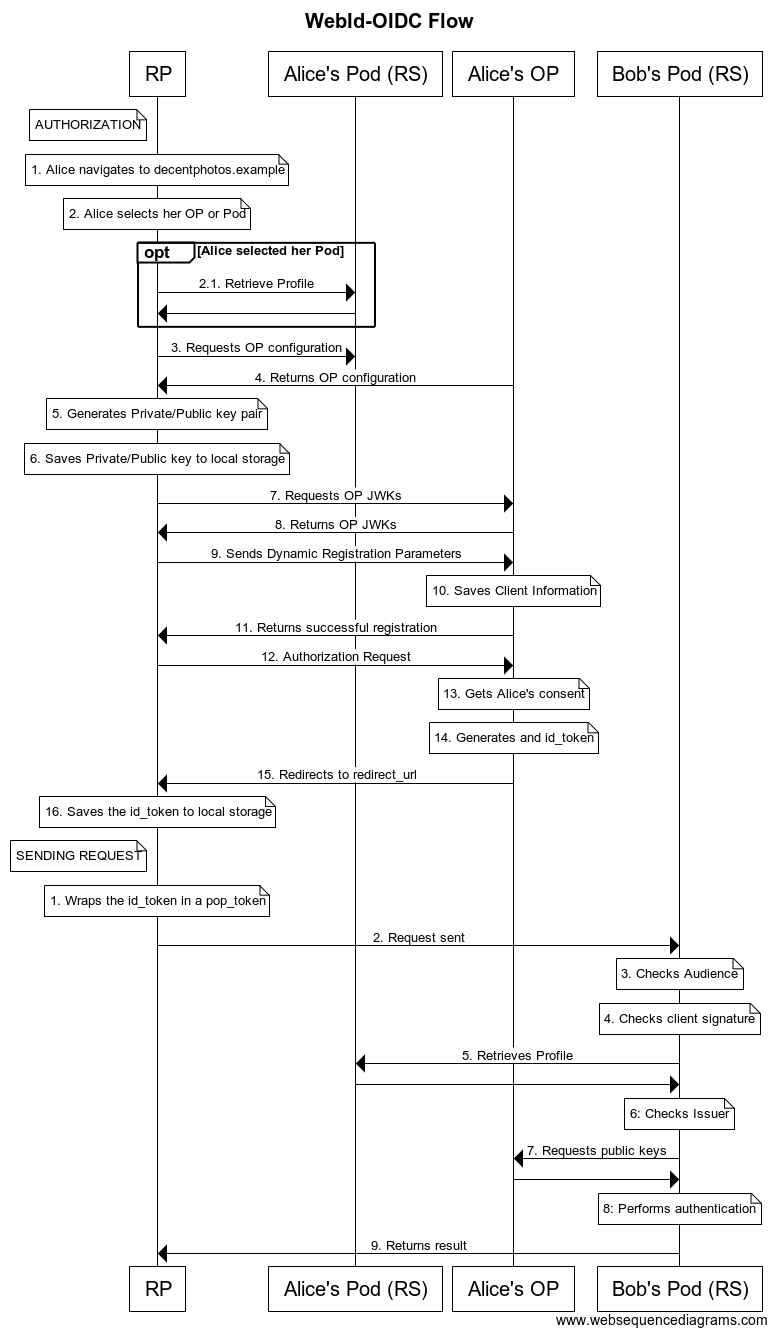
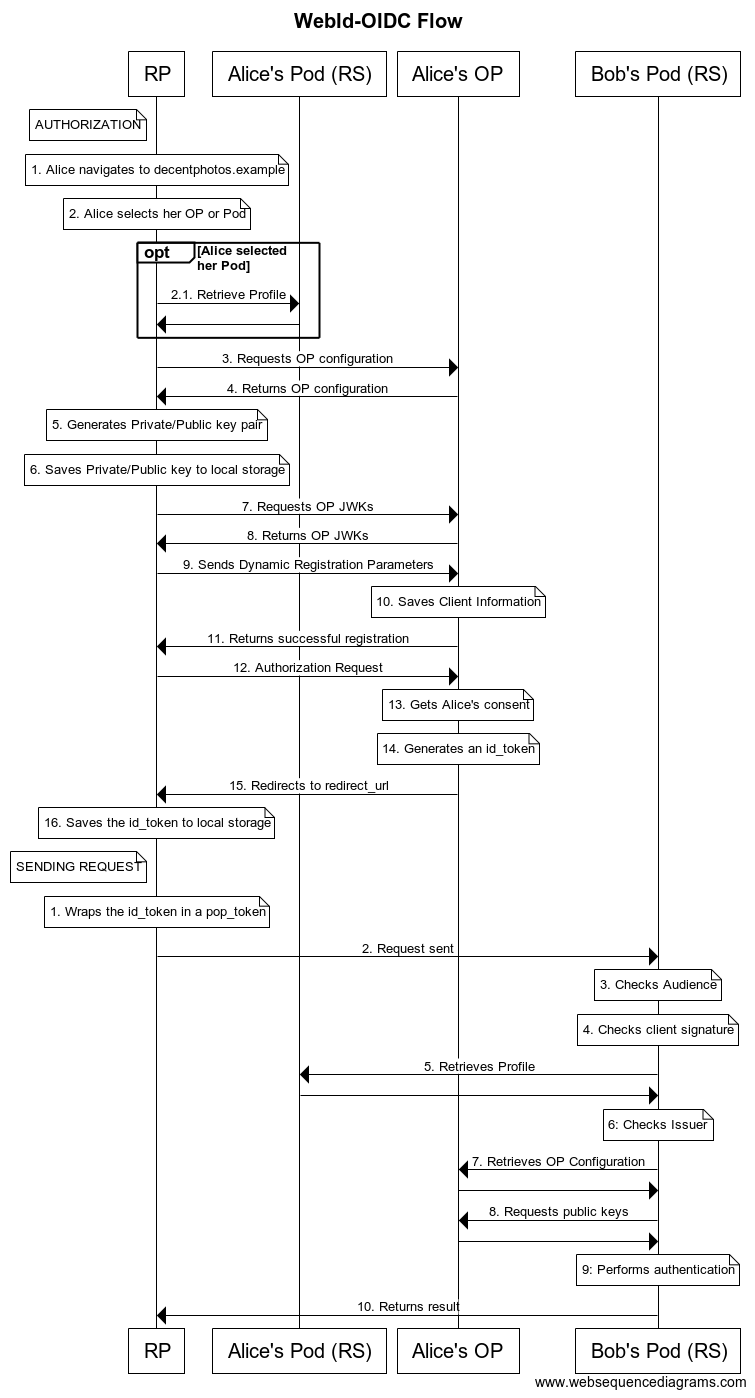
Added steps for clarification

diff --git a/application-workflow-detailed.md b/application-workflow-detailed.md
@@ -467,13 +467,18 @@ A request should be made to url in the `sub` field of the id_token (The user's P
 
 Compare the issuer retrieved in step 5 with the issuer of the id token. If they are not identical the RS must reject the request with a 403.
 
-#### 7. Requests public keys
+#### 7. Retrieves OP Configuration
 
-Now that we've confirmed the validity of the pop_token and the subject of the identity token, we want to ensure the validity of the id_token it contains. To do so, we need the OP's public keys. The OP's address can be obtained via the `iss` field of the id_token (https://secureauth.example). Recall how to retrieve the OP's public keys in steps 3, 4, 7, and 8 of the authorization instructions.
+Before the RS requests information from the thrid-party OP, it must retrieve its configuration. The OP's address can be obtained via the `iss` field of the id_token (https://secureauth.example). Recall how to retrieve the OP's configuration in steps 3 and 4 of the authroization instructions.
 
 ```
 GET https://secureauth.example/.well-known/openid-configuration
 ```
+
+#### 7. Requests public keys
+
+Now that we've confirmed the validity of the pop_token and the subject of the identity token, we want to ensure the validity of the id_token it contains. To do so, we need the OP's public keys. The route to retrieve the public keys is listed in the OP Configuration fetched in the previous step. Recall how to retrieve the OP's public keys in steps 7, and 8 of the authorization instructions.
+
 ```
 GET https://secureauth.example/jwks
 ```
